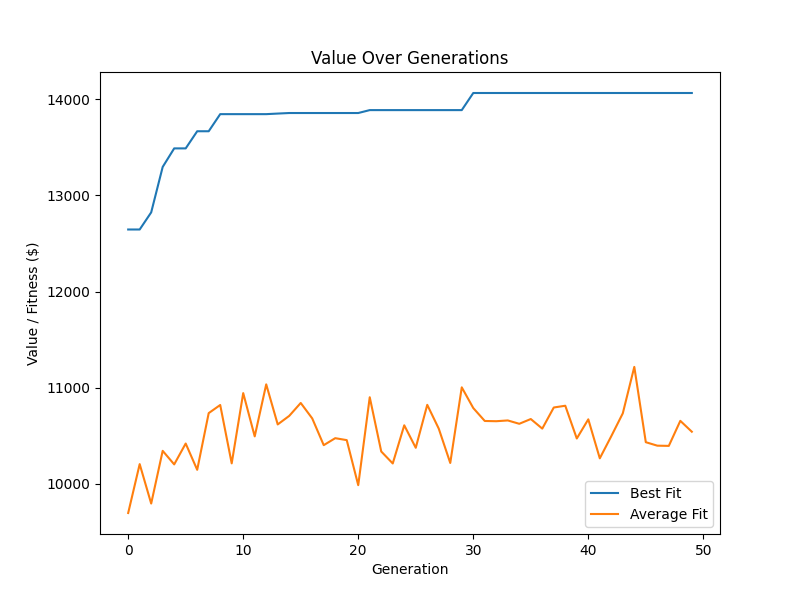
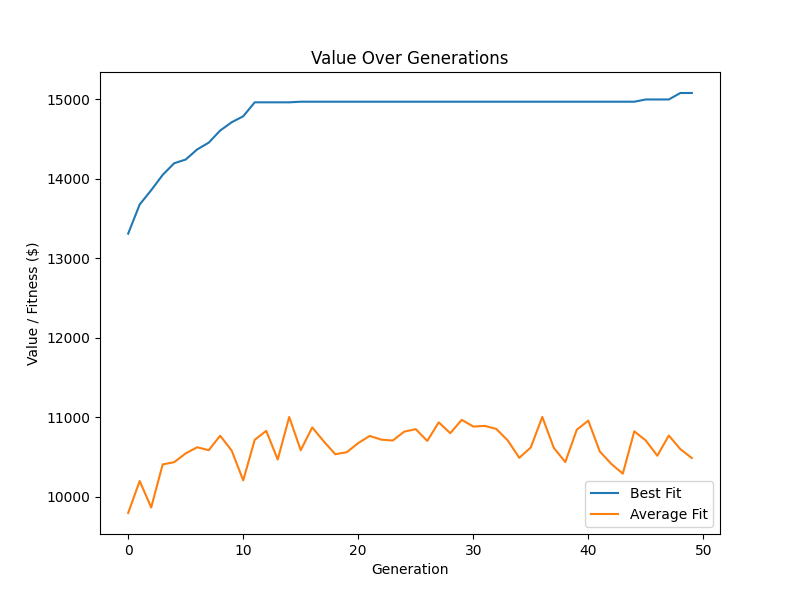
Final results for experiment 2

diff --git a/main.py b/main.py
@@ -12,10 +12,10 @@ MAX_WEIGHT = 10000
 INITIAL_ITEM_THRESH = 1.5
 
 # Individual Constants
-MUTATION_NUM = NUM_ITEMS // 20
+MUTATION_NUM = 2
 
 # Popuation Constants
-POP_SIZE = 20
+POP_SIZE = 100
 MAX_PARENTS = 10
 TOURN_SIZE = 3
 
@@ -23,8 +23,8 @@ TOURN_SIZE = 3
 SCORE_SCALE = 1.3
 
 # Simulation Constants
-NUM_TRIALS = 3
-NUM_GENERATIONS = 50
+NUM_TRIALS = 10
+NUM_GENERATIONS = 300
 
 # Item Generation
 items = []
@@ -44,7 +44,7 @@ def main():
         pop = Population()
 
         for gen in range(NUM_GENERATIONS):
-            print(f'Gen: {gen}, Avg Fit: {pop.avg_fit}, Best: {pop.members[pop.best_ind].fitness}, ${pop.members[pop.best_ind].value}, avg weight: {pop.avg_weight} oz')
+            #print(f'Gen: {gen}, Avg Fit: {pop.avg_fit}, Best: {pop.members[pop.best_ind].fitness}, ${pop.members[pop.best_ind].value}, avg weight: {pop.avg_weight} oz')
             #pop.display()
             pop.generation()
             all_best_fit[gen] += pop.best_fit
@@ -58,13 +58,13 @@ def main():
 
     # Plot Results
     plt.figure(figsize=(8, 6))
-    plt.plot(all_best_fit, label='Best Fit')
-    plt.plot(all_avg_fit, label='Average Fit')
+    plt.plot(all_best_fit, label='Best')
+    plt.plot(all_avg_fit, label='Average')
     plt.xlabel('Generation')
-    plt.ylabel('Value / Fitness ($)')
-    plt.title(f'Value Over Generations')
+    plt.ylabel('Fitness ($)')
+    plt.title(f'Fitness Over Generations, {NUM_ITEMS} Items')
     plt.legend()
-    plt.savefig(f'result.png')
+    plt.savefig(f'{NUM_ITEMS}.png')
 
 class Individual:
     """
@@ -118,7 +118,9 @@ class Individual:
         """
         clone = Individual()
         clone.genome = self.genome[:]
-        clone.update()
+        clone.fitness = self.fitness
+        clone.value = self.value
+        clone.weight = self.weight
         return clone
 
     def __str__(self):
@@ -143,9 +145,6 @@ class Population:
         """
         Perform reproduction via tournament selectiona and one-point crossover.
         """
-        # Keep the best individual
-        elite = self.members[self.best_ind].copy()
-        new_members = [elite]
 
         for _ in range(random.randint(1, max_parents)):
             # Select two parents
@@ -158,14 +157,8 @@ class Population:
             c.genome = a.genome[:p] + b.genome[p:]
             c.mutate()
             c.update()
+            self.members[self.select_lowest()] = c
 
-            # Replace random member in the population with the new child
-            new_members.append(c)
-
-        while len(new_members) < POP_SIZE:
-            new_members.append(Individual())
-
-        self.members = new_members[:POP_SIZE]
         self.update()
 
     def select(self) -> Individual:
@@ -182,6 +175,19 @@ class Population:
                 best = ind
 
         return self.members[best].copy()
+    
+    def select_lowest(self) -> int:
+        worst = -1
+        worst_fit = 9999999999
+
+        for i in range(TOURN_SIZE):
+            op = random.randrange(POP_SIZE)
+            op_fit = self.members[op].fitness
+            if op_fit < worst_fit:
+                worst = op
+                worst_fit = op_fit
+        
+        return worst
 
     def update(self) -> None:
         """
